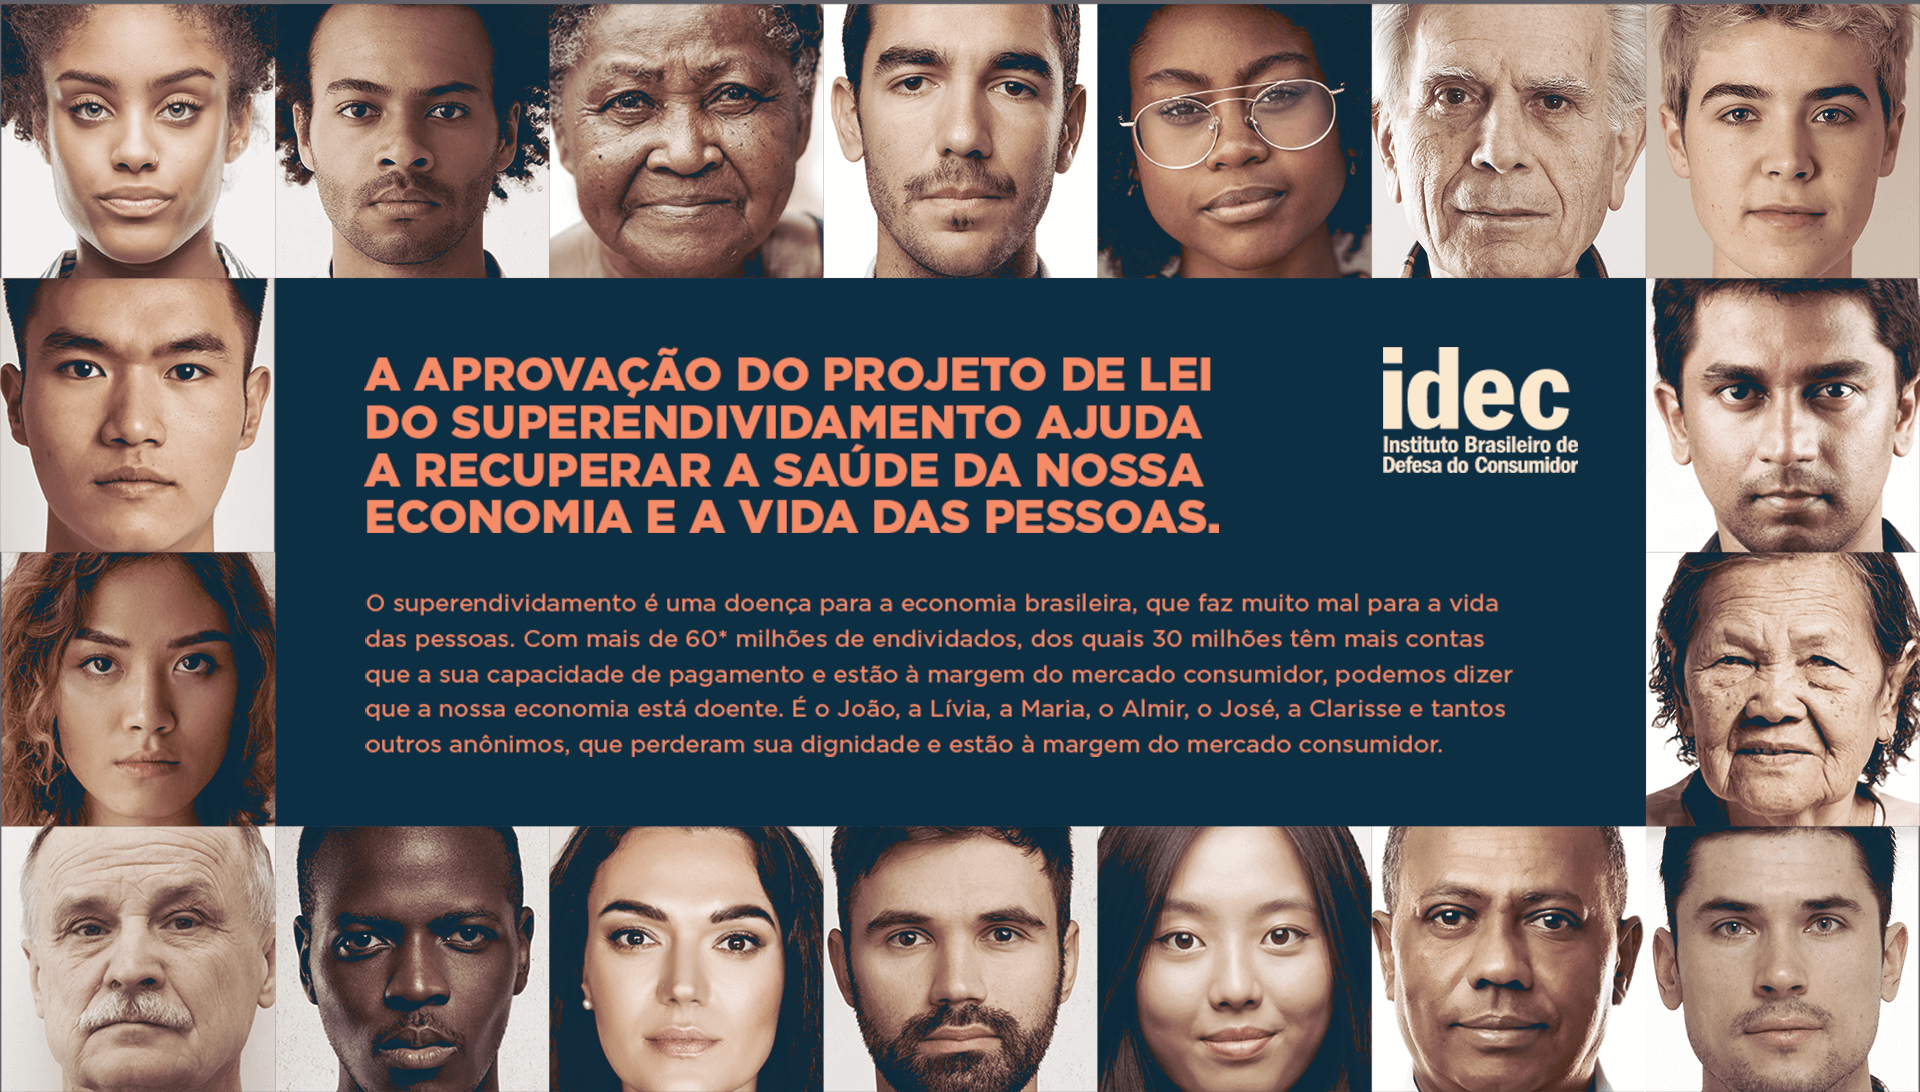
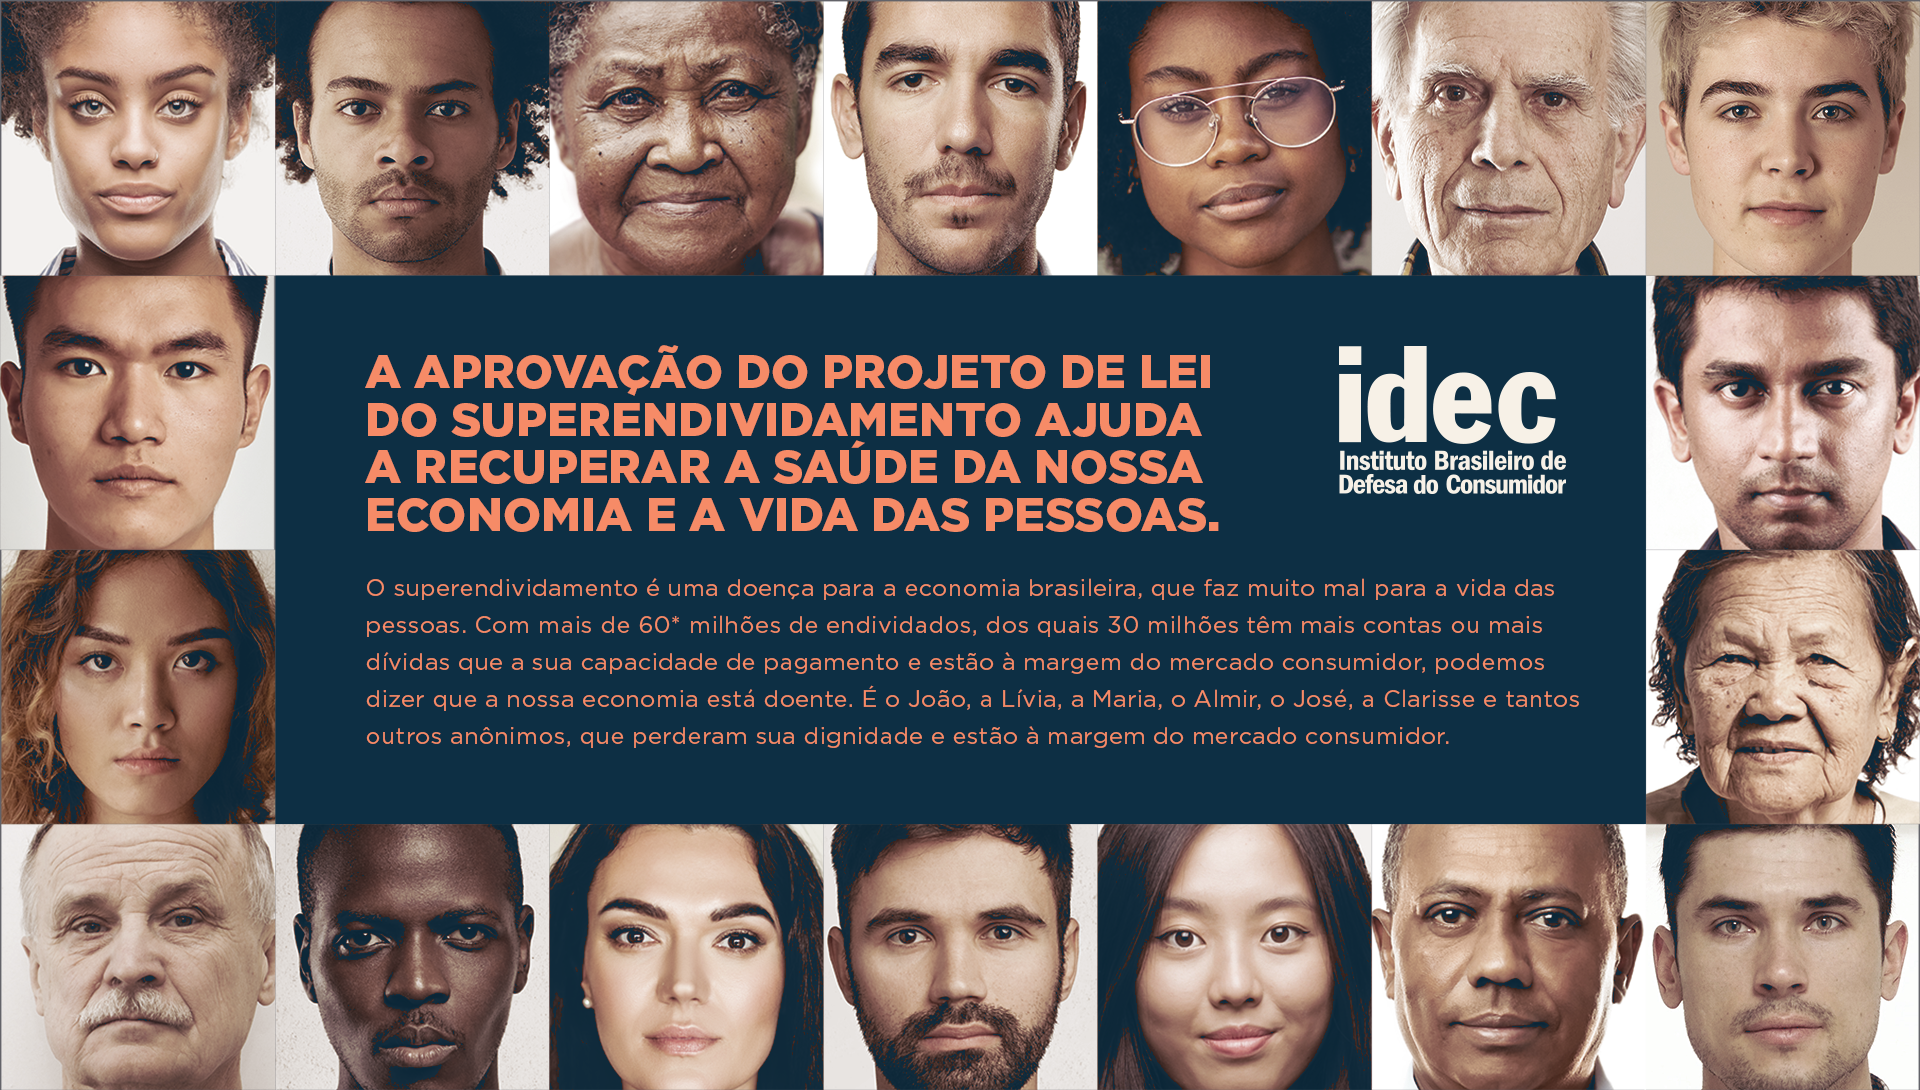
Ajustes nos textos e imagens

diff --git a/index.html b/index.html
@@ -15,6 +15,9 @@
 </head>
 <body>
   <main>
+    <div>
+      <img src="assets/img/header_top_block_one.png" alt="Mosaico de consumidores" class="image-block mobile">
+    </div>
     <section class="block-one">
       <div class="desktop">
         <img src="assets/img/background_block_one.png" alt="Mosaico de consumidores" class="mosaico">
@@ -30,11 +33,14 @@
             </h1>
           </div>
           <p class="text-one">
-            O superendividamento é uma doença para a economia brasileira, que faz muito mal para a vida das pessoas. Com mais de 60* milhões de endividados, dos quais 30 milhões têm mais contas que a sua capacidade de pagamento e estão à margem do mercado consumidor, podemos dizer que a nossa economia está doente. É o João, a Lívia, a Maria, o Almir, o José, a Clarisse e tantos outros anônimos, que perderam sua dignidade e estão à margem do mercado consumidor.
+            O superendividamento é uma doença para a economia brasileira, que faz muito mal para a vida das pessoas. Com mais de 60* milhões de endividados, dos quais 30 milhões têm mais contas ou mais dívidas que a sua capacidade de pagamento e estão à margem do mercado consumidor, podemos dizer que a nossa economia está doente. É o João, a Lívia, a Maria, o Almir, o José, a Clarisse e tantos outros anônimos, que perderam sua dignidade e estão à margem do mercado consumidor.
           </p>
         </div>
       </div>
-    </section>
+    </section>    
+    <div>
+      <img src="assets/img/header_bottom_block_one.png" alt="Mosaico de consumidores" class="image-block mobile">
+    </div>
     
     <div class="container-image background-prusia">
       <img src="assets/img/img_block_two.png" alt="Consumidora" class="image-block mobile">
@@ -51,7 +57,7 @@
             </h2>
           </div>
           <p class="text-two">
-            <a href="https://guiadosbancosresponsaveis.org.br/superendividamento/" target="_blank" rel="noopener" class="link-salmon">O superendividado pode ser seu vizinho</a>, um colega de trabalho ou até mesmo um parente próximo. Este é um mal que atinge toda a sociedade brasileira, em todas as classes. Trata-se de uma questão social e até de saúde, pois pode causar problemas graves como a depressão, por exemplo. <a href="https://guiadosbancosresponsaveis.org.br/superendividamento/" target="_blank" rel="noopener" class="link-salmon">Os altos juros endividam as famílias</a>, o que trava sua capacidade de consumo, afetando as empresas e o comércio. É um perverso círculo vicioso que estrangula o nosso desenvolvimento.
+            <a href="https://guiadosbancosresponsaveis.org.br/superendividamento/" target="_blank" rel="noopener" class="link-salmon">O superendividado pode ser seu vizinho</a>, um colega de trabalho ou até mesmo um parente próximo. Este é um mal que atinge toda a sociedade brasileira, em todas as classes. Trata-se de uma questão social e até de saúde, pois pode causar problemas graves como a depressão, por exemplo. <a href="https://idec.org.br/em-acao/revista/149/materia/credito-consignado-e-superendividamento" target="_blank" rel="noopener" class="link-salmon">Os altos juros endividam as famílias</a>, o que trava sua capacidade de consumo, afetando as empresas e o comércio. É um perverso círculo vicioso que estrangula o nosso desenvolvimento.
           </p>
       </div>
     </section>
@@ -71,7 +77,7 @@
             </h2>
           </div>
           <p class="text-three">
-            É por isso que <a href="https://idec.org.br/noticia/camara-instala-comissao-de-projeto-sobre-superendividamento" target="_blank" rel="noopener" class="link-prusia">a aprovação Projeto de Lei 3.515 é tão importante.</a> Ele visa limpar o nome dos cidadãos ou acabar com o nome sujo. Para isso, deverão ser incluídos dois novos capítulos sobre superendividamento no Código de Defesa do Consumidor. O primeiro, trata da prevenção do endividamento, ao regular a concessão de crédito, a publicidade e tornar os riscos mais evidentes. O outro, visa garantir melhores condições para negociação da dívida com as instituições financeiras.
+            É por isso que <a href="https://idec.org.br/noticia/camara-instala-comissao-de-projeto-sobre-superendividamento" target="_blank" rel="noopener" class="link-prusia">a aprovação Projeto de Lei 3.515 é tão importante.</a> Ele visa limpar o nome dos cidadãos ou acabar com o nome sujo. Para isso, deverão ser incluídos dois novos capítulos sobre superendividamento no Código de Defesa do Consumidor. O primeiro, trata da proteção ao endividamento, ao regular a concessão de crédito, ao regular a concessão de crédito, a publicidade e tornar os riscos mais evidentes. O outro, visa garantir melhores condições para negociação da dívida com as instituições financeiras.
           </p>
       </div>
     </section>
@@ -129,9 +135,9 @@
                 Compartilhe em suas redes sociais:
               </p>
               <div class="icons-sociais">
-                <a href="https://www.facebook.com/aliancapelaalimentacao/" target="_blank" rel="noopener" class="link-social"><img src="assets/img/icon_facebook.png" alt="Facebook" class="icon-social"></a>
-                <a href="https://www.instagram.com/aliancaalimentacao/" target="_blank" rel="noopener" class="link-social"><img src="assets/img/icon_instagram.png" alt="Instagram" class="icon-social"></a>
-                <a href="https://twitter.com/aliancaalimenta" target="_blank" rel="noopener" class="link-social"><img src="assets/img/icon_twitter.png" alt="Twitter" class="icon-social"></a>
+                <a href="https://web.facebook.com/idecbr/" target="_blank" rel="noopener" class="link-social"><img src="assets/img/icon_facebook.png" alt="Facebook" class="icon-social"></a>
+                <a href="https://www.instagram.com/idecbr/" target="_blank" rel="noopener" class="link-social"><img src="assets/img/icon_instagram.png" alt="Instagram" class="icon-social"></a>
+                <a href="https://twitter.com/idec" target="_blank" rel="noopener" class="link-social"><img src="assets/img/icon_twitter.png" alt="Twitter" class="icon-social"></a>
                 <a href="https://www.linkedin.com/company/idecbr/" target="_blank" rel="noopener" class="link-social"><img src="assets/img/icon_linkedin.png" alt="Linkedin" class="icon-social"></a>
               </div>
             </div>
@@ -139,7 +145,7 @@
               <div class="logos-container">
                 <div class="logo"><a href="https://www.brasilcon.org/" target="_blank" rel="noopener"><img src="assets/img/logo_brasilcon.png" alt="BRASILCON"></a></div>
                 <div class="logo"><a href="https://guiadosbancosresponsaveis.org.br/" target="_blank" rel="noopener"><img src="assets/img/logo_guide_brz.png" alt="Guia dos Bancos Responsáveis"></a></div>
-                <div class="logo"><a href="https://idec.org.br/" target="_blank" rel="noopener"><img src="assets/img/logo_idec_footer.png" alt="Instituto Brasileiro de Defesa do Consumidor"></a></div>
+                <div class="logo"><a href="https://idec.org.br/" target="_blank" rel="noopener"><img src="assets/img/logo_idec_header.png" alt="Instituto Brasileiro de Defesa do Consumidor"></a></div>
               </div>
             </div>
           </div>
